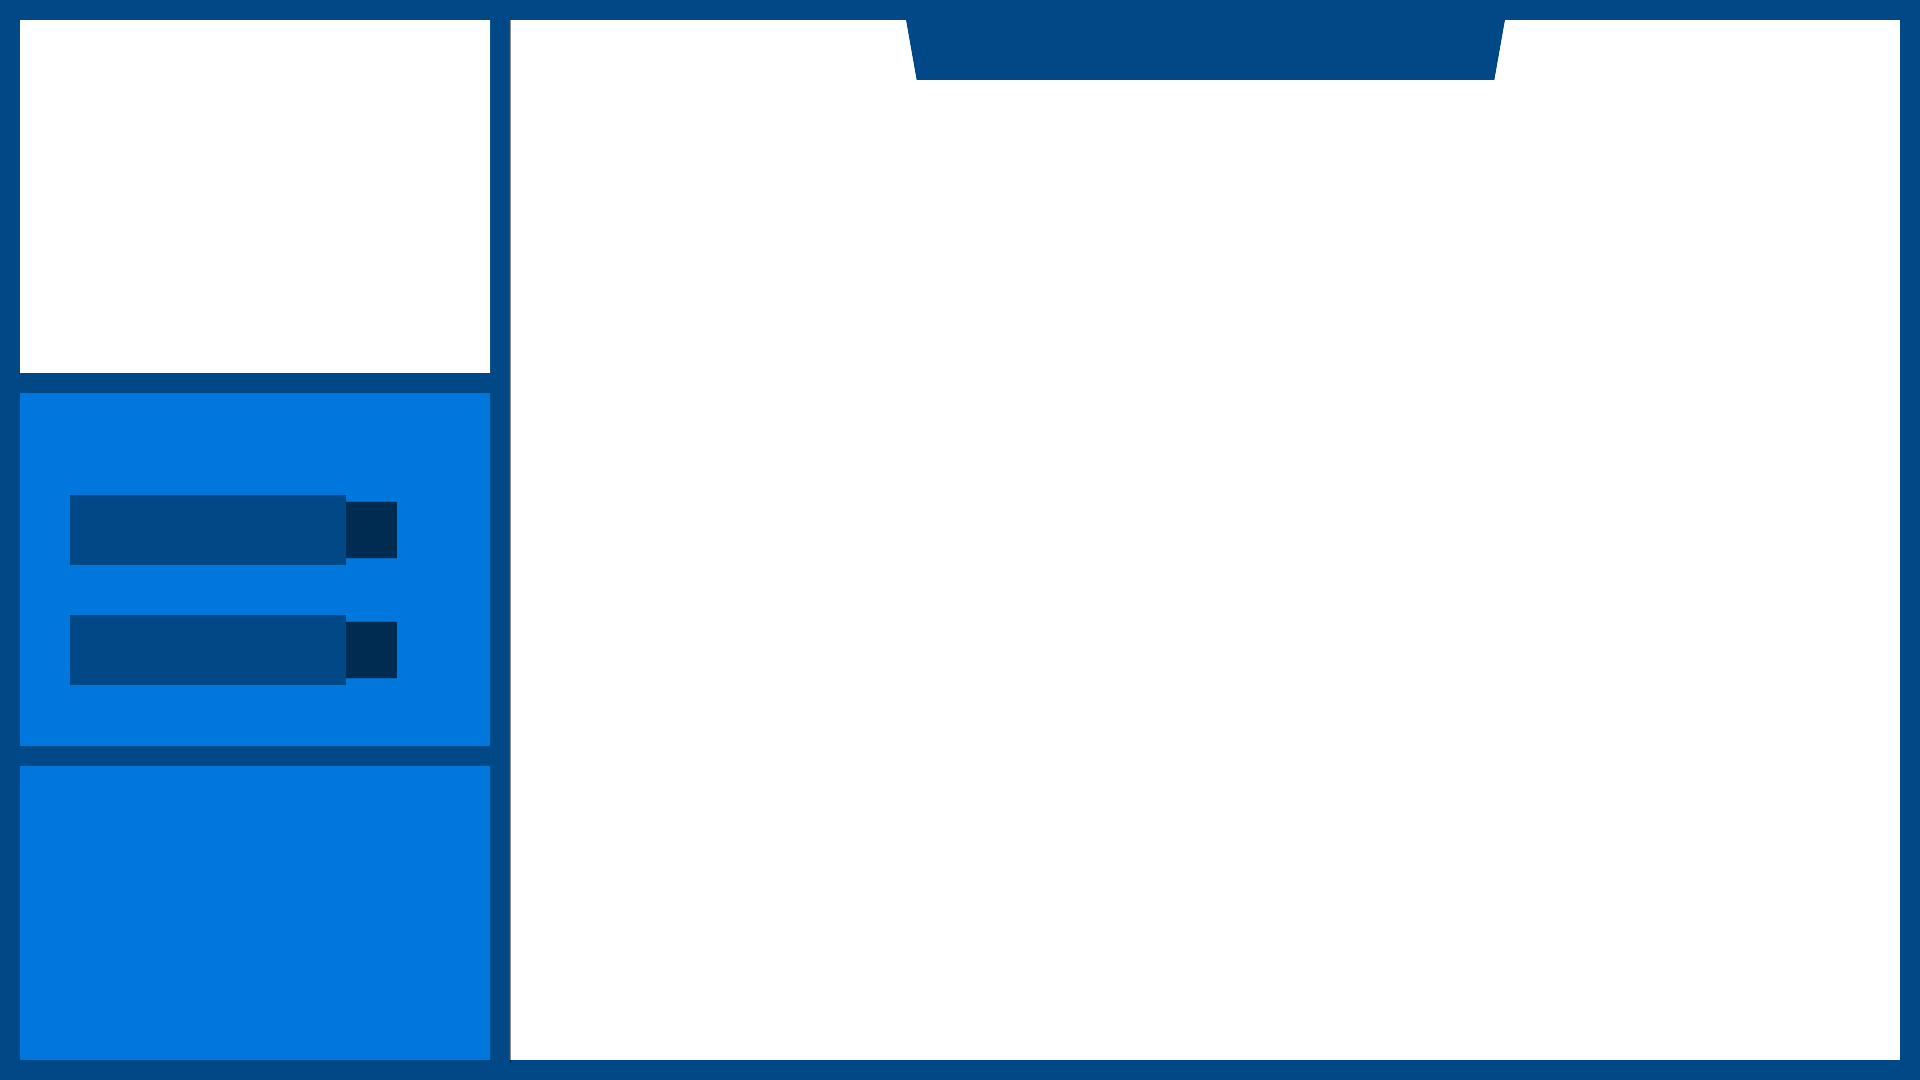
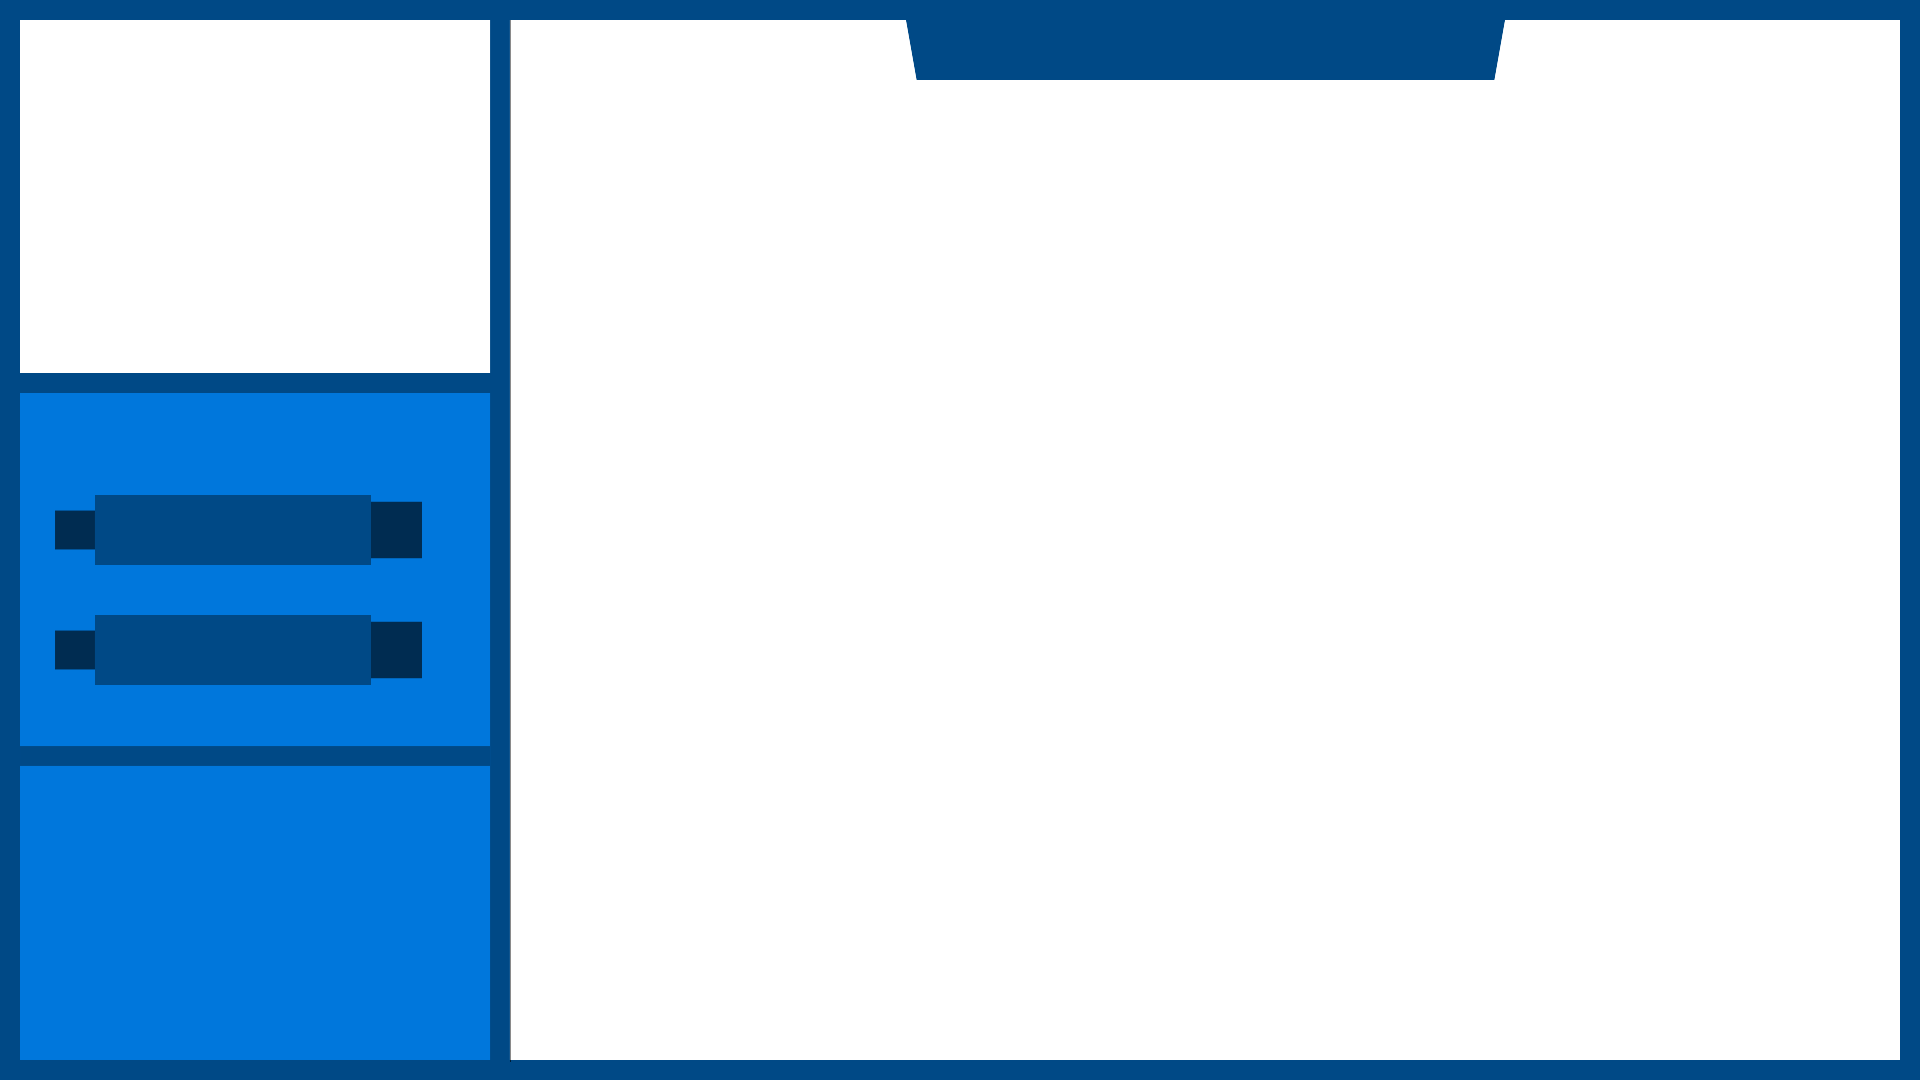
Updated thumbnail and layout

diff --git a/graphics/css/layout.css b/graphics/css/layout.css
@@ -24,6 +24,15 @@ body{
 	font-size: 36px;
 	text-align: center;
 }
+.icon{
+	position: absolute;
+	top: -10px;
+	left: -42px;
+}
+.icon img{
+	height: 30px;
+	width: 24px;
+}
 .player1-port{
 	position: absolute;
 	background-color: white;
@@ -36,7 +45,7 @@ body{
 	text-align: center;
 	color: white;
 	width: 225px;
-	left: 75px;
+	left: 105px;
 	top: 520px;
 	font-size: 36px;
 }
@@ -59,7 +68,7 @@ body{
 	position: absolute;
 	width: 30px;
 	top: -10px;
-	left: 280px;
+	left: 275px;
 	font-size: 36px;
 }
 .player2-info{
@@ -67,10 +76,32 @@ body{
 	text-align: center;
 	color: white;
 	width: 225px;
-	left: 75px;
+	left: 105px;
 	top: 640px;
 	font-size: 36px;
 }
+.player2-tag{
+	position: absolute;
+	height: 30px;
+	line-height: 20px;
+	width: 265px;
+}
+/* .player2-pronouns{
+	position: absolute;
+	color:white;
+	font-size:14px;
+	bottom:9px;
+	left:55px;
+	width:150px;
+} */
+.player2-score{
+	position: absolute;
+	width: 30px;
+	top: -10px;
+	left: 275px;
+	font-size: 36px;
+}
+
 .port-1{
 	position: absolute;
 	height: 15px;
@@ -117,25 +148,4 @@ body{
 }
 .port-4.filled{
 	background-color: #4eb94e;
-}
-.player2-tag{
-	position: absolute;
-	height: 30px;
-	line-height: 20px;
-	width: 265px;
-}
-/* .player2-pronouns{
-	position: absolute;
-	color:white;
-	font-size:14px;
-	bottom:9px;
-	left:55px;
-	width:150px;
-} */
-.player2-score{
-	position: absolute;
-	width: 30px;
-	top: -10px;
-	left: 280px;
-	font-size: 36px;
 }

diff --git a/graphics/css/thumbnail.css b/graphics/css/thumbnail.css
@@ -4,7 +4,7 @@ body{
 	margin: 0;
 }
 .thumbnail-container{
-	font-family: Arial;
+	font-family: 'Cabin', sans-serif;
 	display: block;
 	width: 1920px;
 	height: 1080px;
@@ -36,17 +36,17 @@ body{
 .player2-render{
 	z-index: 2;
 	position: relative;
-	right: -1100px;
+	right: -1130px;
 	transform: scaleX(-1);
 }
 .render img{
 	position: relative;
 	overflow: hidden;
-	left: 150px;
-	top: 325px;
+	left: 175px;
+	top: 355px;
 	max-width: 800px;
 	max-height: 900px;
-	width: auto;
+	width: 120%;
 	height: auto;
 	object-fit: contain;
 	z-index: 200;
@@ -58,7 +58,7 @@ body{
 	height: 150px;
 	position: absolute;
 	z-index: 4;
-	left: 875px;
+	left: 885px;
 }
 .text{
 	position: relative;
@@ -66,33 +66,34 @@ body{
 	display: block;
 	text-align: center;
 	z-index: 500;
+	color: white;
 }
 .bracket-location{
 	position: absolute;
-	font-size: 60px;
+	font-size: 72px;
 	width: 530px;
 	height: 60px;
 	line-height: 60px;
-	bottom: 410px;
-	left: 696px;
+	bottom: 105px;
+	left: 695px;
 }
 
 .player1-tag{
-	top: 5px;
+	top: -15px;
 	position: absolute;
 	width: 800px;
 	height: 150px;
 	line-height: 150px;
-	left: 50px;
+	left: 75px;
 	font-size: 96px;
 }
 .player2-tag{
-	top: 5px;
+	top: -15px;
 	position: absolute;
 	width: 800px;
 	height: 150px;
 	line-height: 150px;
-	right: 50px;
+	right: 75px;
 	font-size: 96px;
 }
 .foreground-image{

diff --git a/graphics/js/set-info.js b/graphics/js/set-info.js
@@ -26,7 +26,6 @@ function FixSize(selector){
 
 function doPorts(player, port){
 	var classnames = ['port-1', 'port-2', 'port-3', 'port-4'];
-	console.log(player, port);
 	classnames.forEach((name) => {
 		name.includes(port) ? $(`.${player}.${name}`).addClass('filled') : $(`.${player}.${name}`).removeClass('filled')
 	})
@@ -38,9 +37,11 @@ $(() => {
 	function loadSmashControl(){
 		const bundle = 'nodecg-smashcontrol';
 		var bracketlocation = $('.bracket-location');
+		var player1char = $('.player1-char');
 		var player1name = $('.player1-tag');
 		// var player1pronouns = $('.player1-pronouns');
 		var p1score = $('.player1-score');
+		var player2char = $('.player2-char');
 		var player2name = $('.player2-tag');
 		// var player2pronouns = $('.player2-pronouns');
 		var p2score = $('.player2-score');
@@ -74,6 +75,9 @@ $(() => {
 				p1score.text(player1score.value);
 				p2score.text(player2score.value);
 			});
+			var linkToImage = "../../nodecg-smashcontrol/dashboard/images/" + setData.game + "/";
+            player1char.children().attr("src", (linkToImage + setData.player1character.split("[REMIX] ").at(-1) + ".png"));
+            player2char.children().attr("src", (linkToImage + setData.player2character.split("[REMIX] ").at(-1) + ".png"));
 			toFix = ['.player1-tag', '.player2-tag']
 			toFix.map(FixSize)
 		}

diff --git a/graphics/thumbnail.html b/graphics/thumbnail.html
@@ -3,12 +3,15 @@
 <head>
 
 	<meta charset="utf-8">
-	<title>RIT Smash Club Thumbnail</title>
+	<title>Neutral Tilt Thumbnail</title>
 	<link rel="stylesheet" href="css/thumbnail.css">
 	<script src="https://ajax.googleapis.com/ajax/libs/jquery/3.3.1/jquery.min.js"></script>
 	<script src="https://cdnjs.cloudflare.com/ajax/libs/gsap/latest/TweenMax.min.js"></script>
 	<script src="https://html2canvas.hertzen.com/dist/html2canvas.js"></script>
 	<script src="js/thumbnail-gen.js"></script>
+	<link rel="preconnect" href="https://fonts.googleapis.com">
+	<link rel="preconnect" href="https://fonts.gstatic.com" crossorigin>
+	<link href="https://fonts.googleapis.com/css2?family=Cabin&display=swap" rel="stylesheet">
 
 </head>
 <body>
@@ -22,8 +25,8 @@
 			<div class="text bracket-location"></div>
 		</div>
 		<div class="layout-images">
-			<div class="image background-image"><img src="images/thumbnail-bg.png"></div>
-			<div class="image foreground-image"><img src="images/thumbnail-fg.png"></div>
+			<div class="image background-image"><img src="images/thumb-bg.png"></div>
+			<div class="image foreground-image"><img src="images/thumb-fg.png"></div>
 		</div>
 		
 		<div class="renders">

diff --git a/graphics/layout.html b/graphics/layout.html
@@ -27,6 +27,7 @@
 					<div class="p1 port-3"></div>
 					<div class="p1 port-4"></div>
 				</div>
+				<div class="icon player1-char"><img src=""></div>
 				<div class="player1-tag"></div>
 				<div class="player1-pronouns"></div>
 				<div class="player1-score"></div>
@@ -38,6 +39,7 @@
 					<div class="p2 port-3"></div>
 					<div class="p2 port-4"></div>
 				</div>
+				<div class="icon player2-char"><img src=""></div>
 				<div class="player2-tag"></div>
 				<div class="player2-pronouns"></div>
 				<div class="player2-score"></div>
